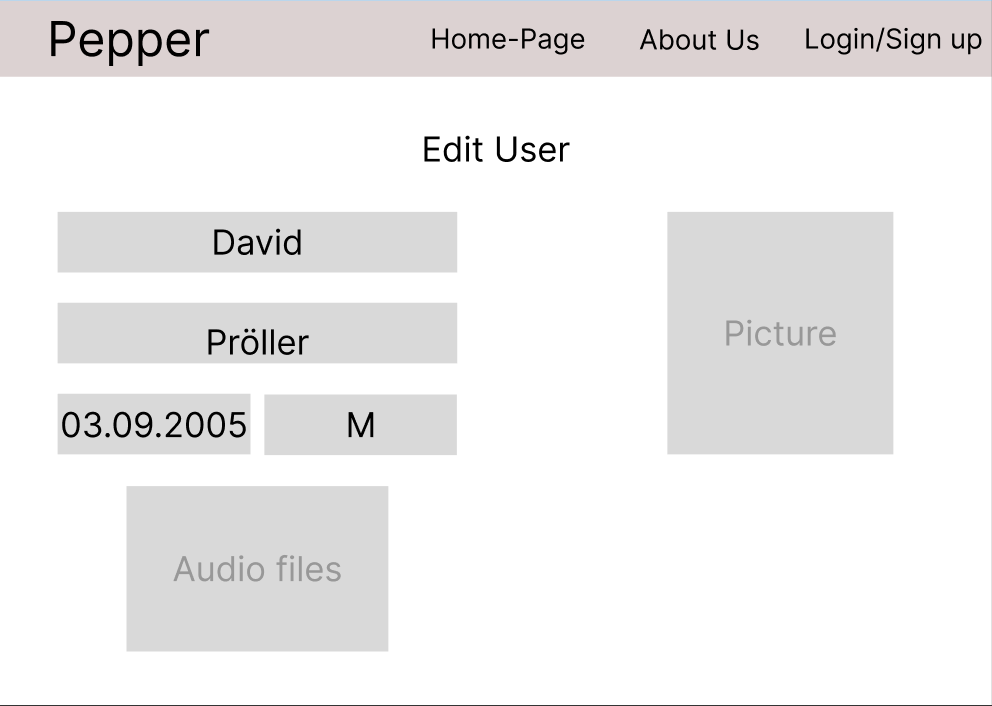
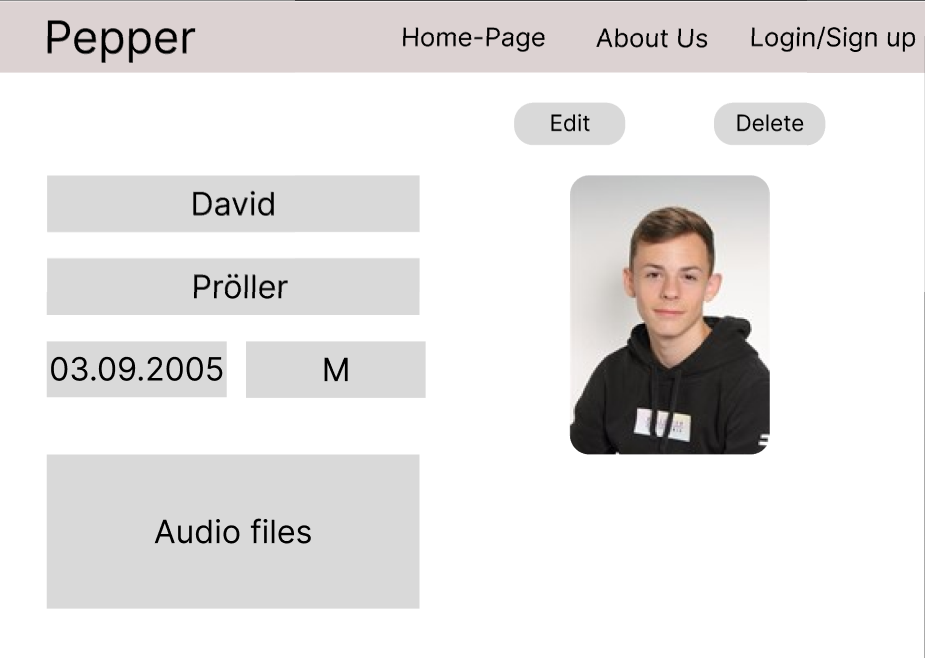
Updated USE-CASE-DIAGRAM and GUI Designs

diff --git a/Readme.md b/Readme.md
@@ -26,16 +26,8 @@ Die REST-API speichert die Daten auf eine Datenbank. Von dortaus bekommt sie auc
 
 <img src="./Person Manager For Pepper/USE-CASE-DIAGRAM.PNG">
 
-### Startseite der Webseite
-<img src="./Person Manager For Pepper/Index.PNG">
 
-Auf unserer Startseite hat man in der Navigation-Bar 3 verschieden Buttons. Einmal Home-Page um immer auf die Startseite zurückzulangen.
-Daneben About-Us um mehr über die Ersteller dieser Webseite zu erfahren. Und abschließend ein Login/Sign up um sich anzumelden oder neu registrieren.
-Darunter ist ein kleiner Einführungstext über die Webseite und 3 größe Buttons. Der Buttons All Users führt einen zu einer neuen Seite wo im alle vorhandenen User angezeigt werden.
-Der Button Edit User führt in zu einer Seite wo er seine eigenen Daten ändern kann, sofern er schon einen hat.
-Der letzte Button Create User lässt den User einen ganz neuen User erstellen.
-
-### 2.2. Use Case Ansicht von Personen
+### 2.2. Use Case Ansicht von allen Personen
 
 #### 2.2.1 GUI-Design
 
@@ -43,10 +35,12 @@ Der letzte Button Create User lässt den User einen ganz neuen User erstellen.
 
 #### 2.2.2 Workflow
 
-Der User oder Roboter kann auf der Index Seite auf "All Users" klicken und sieht dann eine Liste mit allen angelegten Personen.
-Durch einen Klick auf eine Person erhält er die Daten und Informationen des jeweiligen Users. Jeder User kann die Daten der anderen User sehen, aber nicht verändern.
+Auf unserer Startseite gibt es ganz oben eine Navigationsbar mit einer About Us Section und 
+es gibt die Möglichkeit sich einzuloggen. Ebenso werden auch alle registrierten Personen angezeigt
+und mit dem Plus Button kann man Personen hinzufügen. Wenn man auf den Button Details neben einer
+Person klickt, dann kommt man zu den Daten der einzelnen Personen.
 
-### 2.3. Use Case View Person
+### 2.3. Use Case Create User
 
 #### 2.3.1 GUI-Design
 
@@ -54,10 +48,9 @@ Durch einen Klick auf eine Person erhält er die Daten und Informationen des jew
 
 #### 2.3.2 Workflow
 
-Diese Seite erscheint wenn der User auf einen anderen User geklickt hat um sich seine Daten anzuschauen. 
-Der User sieht unter anderen seinen Namen, ein optionales Bild, das Geburtsdatum, das Geschlecht und vielleicht noch ein Audio file des Users.
+Wenn der User auf der Startseite auf das Plus gedrückt hat kann er einen neuen User erstellen wenn er sich davor eingeloggt hat. Er muss Vorname, Nachname, Geburtsdatum und Gender eintragen. Er kann optional auch noch ein Bild von sich einfügen und auch noch ein Audio file. Das Bild und Audiofile werden per Drag&Drop Box hinzugefügt.
 
-### 2.4. Use Case Edit Person
+### 2.4. Use Case View, Edit & Delete Person
 
 #### 2.4.1 GUI-Design
 
@@ -65,11 +58,12 @@ Der User sieht unter anderen seinen Namen, ein optionales Bild, das Geburtsdatum
 
 #### 2.4.2 Workflow
 
-Es gibt auch noch die Möglichkeit, um seine eigenen Daten zu bearbeiten. Nur der User kann sich selbst editieren und sonst kein anderer.
-Dazu muss er sich einloggen. Er hat nur die Berechtigung für sich selbst, kann aber die Daten und Informationen der anderen User sehen.
-Der Sinn dahinter ist, dass man zum Beispiel ein neues Audio file hinzufügt, oder das Bild statt einem aktuellem Bild austauscht.
+Durch das Klicken auf den Details Button auf der Startseite kommt man zu den Daten der ausgewählten Person.
+Mann kann unteranderm den Namen der Person sehen, ein optionales Bild, das Geburtsadtum, das Geschlecht udn vielleicht noch ein Audio file.
+Mithilfe des Edit Buttons kann die Person bearbeitet werden um zum Beispiel ein neues Audio file hinzufügen zu können. Das Bild und Audiofile werden per Drag&Drop Box hinzugefügt oder geändert.
+Durch den Delete Button kann die ausgewählte Person gelöscht werden und die Person kann nur ihren eigenen User löschen und editieren. 
 
-### 2.5. Use Case Create Person
+### 2.5. Use Case Login/Sign up
 
 #### 2.5.1 GUI-Design
 
@@ -77,8 +71,8 @@ Der Sinn dahinter ist, dass man zum Beispiel ein neues Audio file hinzufügt, od
 
 #### 2.5.2 Workflow
 
-Wenn der User auf der Home-Page create User gedrückt hat und sich davor noch eingologt hat kann er auch eine neue Person mit seinen eigenen Daten anlegen. 
-Er muss Vorname, Nachname, Geburtsdatum und Gender eintragen. Er kann optional auch noch ein Bild von sich einfügen und auch noch ein Audio file.
+Um einen eigenen User zu erstellen muss man sich einen Account erstellen. Man muss Benutzername und Passwort angeben. Man muss sich dann jedesmal neu einloggen um seinen bestehenden User zu editen.
+
 
 ## 3. Nicht-funktionale Anforderungen
 
